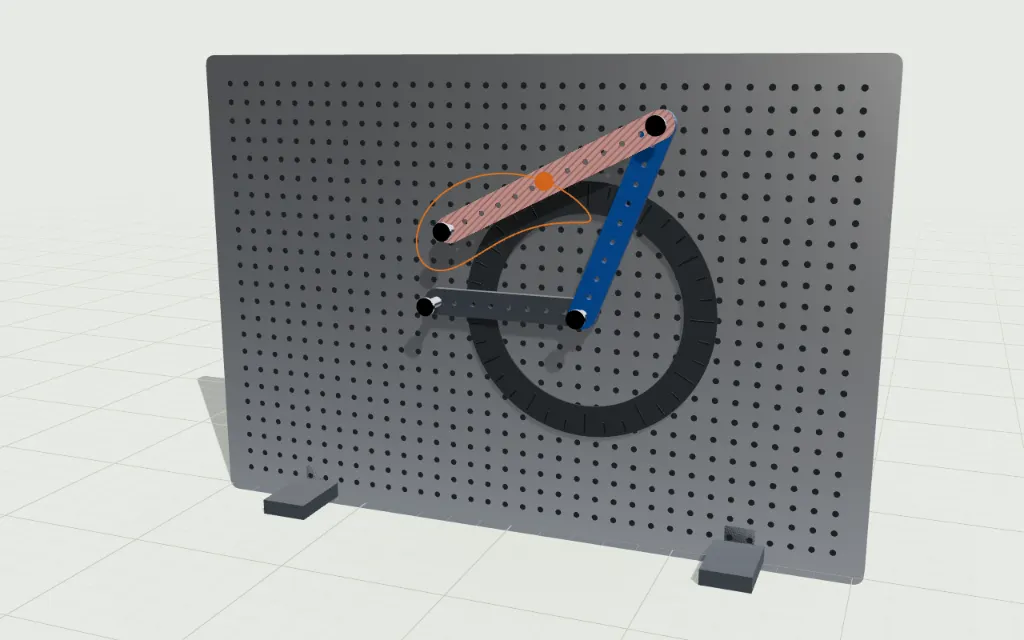
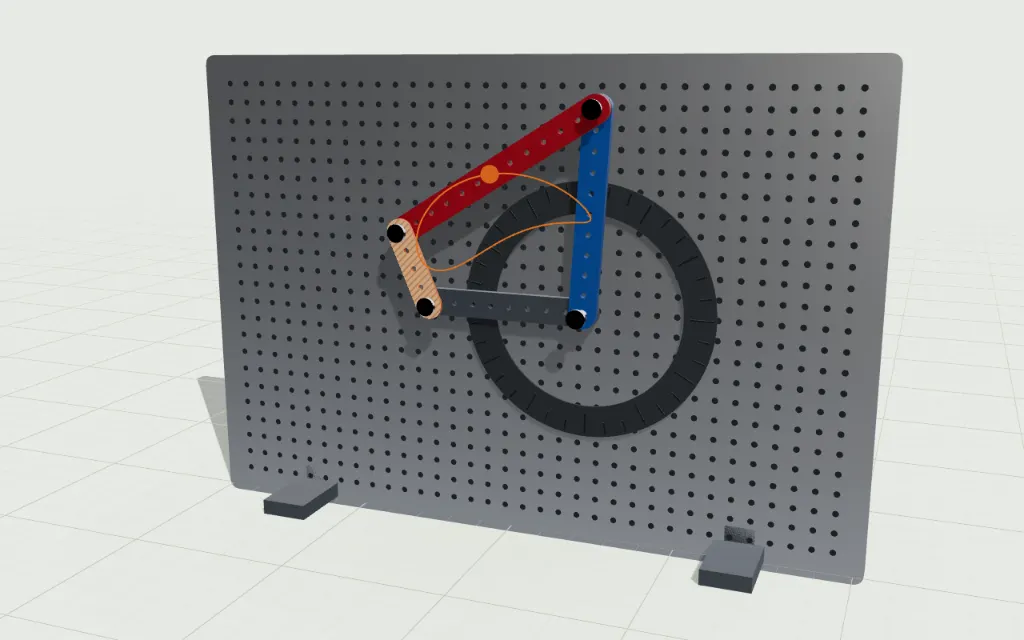
Planar rigs' cutaways go through their front link (four-bar's crank, slider-crank's rod, velocity diagram's coupler, inversions' rod no longer vanish); an audit of every rig's cutaways; pictures retaken; build log 89

Changed region(s): [[0.375, 0.125, 0.6562, 0.5]]

diff --git a/web/src/modules/mechanisms/four-bar/index.tsx b/web/src/modules/mechanisms/four-bar/index.tsx
@@ -20,7 +20,9 @@ const scene: SceneDef = {
   floorY: FLOOR,
   hatchScale: 0.005,
   timeScale: 1,
-  cutPresets: [{ id: 'through', label: 'Through the links', planes: [{ normal: [0, 0, 1], pos: 0.02 }], sectionMoving: true }],
+  // through the crank, the front link (z 0.03): the links behind stay whole. At 0.02 the plane removed everything
+  // in front of it, and the crank, which lies wholly in front, vanished (build log)
+  cutPresets: [{ id: 'through', label: 'Through the crank', planes: [{ normal: [0, 0, 1], pos: 0.03 }], sectionMoving: true }],
   cites: [LAB('Labs 1–2'), INV('four-bar chain, Grashof')],
   reset: () => useFourBar.getState().reset(),
   applyParams: (p) => useFourBar.getState().set(p as Partial<FourBarParams>),

diff --git a/web/src/modules/mechanisms/velocity-diagram/index.tsx b/web/src/modules/mechanisms/velocity-diagram/index.tsx
@@ -17,7 +17,8 @@ const scene: SceneDef = {
   floorY: FLOOR,
   hatchScale: 0.007,
   timeScale: 1,
-  cutPresets: [{ id: 'mid', label: 'Through the links', planes: [{ normal: [0, 0, 1], pos: 0.02 }], sectionMoving: true }],
+  // through the coupler (z 0.026 to 0.034), the front link; at 0.02 the coupler lay wholly in front and vanished
+  cutPresets: [{ id: 'mid', label: 'Through the links', planes: [{ normal: [0, 0, 1], pos: 0.03 }], sectionMoving: true }],
   cites: [V('relative velocity method'), A('acceleration diagrams')],
   reset: () => useDiagram.getState().reset(),
   applyParams: (p) => useDiagram.getState().set(p as Partial<typeof DEFAULTS>),

diff --git a/web/src/modules/mechanisms/inversions/index.tsx b/web/src/modules/mechanisms/inversions/index.tsx
@@ -16,7 +16,8 @@ const scene: SceneDef = {
   floorY: FLOOR,
   hatchScale: 0.008,
   timeScale: 1,
-  cutPresets: [{ id: 'mid', label: 'Through the links', planes: [{ normal: [0, 0, 1], pos: 0.03 }], sectionMoving: true }],
+  // through the connecting rod (z 0.039 to 0.061) and the crank; at 0.03 the rod lay wholly in front and vanished
+  cutPresets: [{ id: 'mid', label: 'Through the links', planes: [{ normal: [0, 0, 1], pos: 0.05 }], sectionMoving: true }],
   cites: [INV('Inversions of the single and double slider crank chains')],
   reset: () => useInv.getState().reset(),
   applyParams: (p) => useInv.getState().set(p as Partial<typeof DEFAULTS>),

diff --git a/web/src/modules/mechanisms/slider-crank/index.tsx b/web/src/modules/mechanisms/slider-crank/index.tsx
@@ -19,7 +19,8 @@ const scene: SceneDef = {
   floorY: FLOOR,
   hatchScale: 0.01,
   timeScale: 1,
-  cutPresets: [{ id: 'through', label: 'Through the mechanism', planes: [{ normal: [0, 0, 1], pos: 0.02 }], sectionMoving: true }],
+  // through the connecting rod (z 0.032 to 0.040), the front link; at 0.02 the rod lay wholly in front and vanished
+  cutPresets: [{ id: 'through', label: 'Through the mechanism', planes: [{ normal: [0, 0, 1], pos: 0.036 }], sectionMoving: true }],
   cites: [LAB('Labs 3 and 5')],
   reset: () => useSlider.getState().reset(),
   applyParams: (p) => useSlider.getState().set(p as Partial<SliderParams>),

diff --git a/docs/BUILD_LOG.md b/docs/BUILD_LOG.md
@@ -498,55 +498,67 @@ Every entry is numbered (in the order they appear, top to bottom) and set out th
 - **Cause:** those places printed text as text; only the chat and the step equations were drawn as maths.
 - **Solution:** `RichInline` (maths in a short label, and a label in bare LaTeX taken as maths) for Given, Find, step and answer labels and the Live and Working labels; the question text through `RichText`. Checked in Edge.
 - **Lesson:** every place model text appears is a place maths can appear.
+
+### 89. The four-bar's crank vanished in the cutaway (home page and its rig) (2026-11-09)
+- **Problem:** the owner saw the crank of the home page's linkage disappear; the Mechanisms tile picture showed the four-bar with no crank at all.
+- **Cause:** planar rigs stack their links in front of a board at different depths (four-bar: frame 6 mm, rocker 14, coupler 22, crank 30). The cutaway "through the links" put its plane at 20 mm and cut moving parts too, which removes everything in front of the plane. The coupler was cut through, but the crank lay wholly in front, so it vanished. The cutaway is part of the home page's show reel and the default for the tile pictures.
+- **Solution:** each plane goes through the front link instead: four-bar at 30 mm (the crank shows hatched), slider-crank at 36 mm (the connecting rod), velocity diagram at 30 mm (the coupler), inversions at 50 mm (the connecting rod and crank). Found by an audit of all 115 rigs (`scripts/audit-cuts.mjs`), which applies every cutaway that cuts moving parts and lists any moving part whose whole box lies on the removed side. The other hits are half sections where the far half is meant to go (a right wheel, push rods). All 12 mechanisms rigs pass, the tile and the four rigs' pictures were retaken, and the cut was checked in Edge.
+- **Lesson:** a section plane must go through what it is meant to show; check that every moving part is still drawn in each cutaway, for every rig, not just the one reported.
+
+### 90. The phone menu ran off the right edge of the screen (2026-11-09)
+- **Problem:** on a phone the Menu sheet was a fixed 256 px panel hung from the Menu button, about 140 px in, so it ran past the right edge and was cut off. It also listed Solve a question twice.
+- **Cause:** the sheet was positioned from the button, not from the page; the item is in both Create and Study.
+- **Solution:** the sheet hangs from the header bar with a 16 px margin each side (a 320 px panel on tablets), and a link a later section also has is listed there only. Measured in Edge at 360, 390 and 820 px: inside the screen every time, page width unchanged.
+- **Lesson:** a popover on a phone belongs to the page's margins, not to the button that opens it; measure its box at the narrowest width.
 ## Nightly tests, admin and labs pages (2026-11-06)
 
-### 89. A propped-cantilever model crashed the whole workspace
+### 91. A propped-cantilever model crashed the whole workspace
 - **Problem:** `Cannot read properties of undefined (reading '0')`, blank page.
 - **Cause:** Gemini sent a `recommendedCut` without a `normal`; the cleaner passed the object through unchecked and an effect read `normal[0]`.
 - **Solution:** `cleanCut` in `note3d/sanitize.ts` checks every field (also applied when opening saved models and in the notes reader), and error boundaries round the 3D view, the side panel and each page.
 - **Lesson:** validate every nested field of model output, not just its presence; and no page should be one bad value away from blank.
 
-### 90. Nightly builds failed with "Something went wrong on the server" (500)
+### 92. Nightly builds failed with "Something went wrong on the server" (500)
 - **Problem:** Nightly builds failed with "Something went wrong on the server" (500).
 - **Cause:** Gemini answered 429 RESOURCE_EXHAUSTED when three builds ran at once, and the API gave up on the first refusal.
 - **Solution:** `api/src/retry.ts` waits and retries (2, 6, 15 s) on 429/503, streamed builds retry if refused before their first word, the final failure says the model is busy (503), and the runner tries once more after 30 s.
 - **Lesson:** treat rate limits as normal for a hosted model; read the service's logs before guessing.
 
-### 91. A draft scored 100 while visibly broken
+### 93. A draft scored 100 while visibly broken
 - **Problem:** (rods not reaching the crank, a tilted flywheel through the casing, labels on top of each other).
 - **Cause:** the checks only covered layout overlap, drawability and calculations.
 - **Solution:** checks for moving parts joined by relation and for overlapping labels, and the prompt states the same rules.
 - **Lesson:** a score is only as good as its checks; look at high scorers before trusting the number.
 
-### 92. Deploy failed: "Build failed; check build logs"
+### 94. Deploy failed: "Build failed; check build logs"
 - **Problem:** Deploy failed: "Build failed; check build logs".
 - **Cause:** `gcloud run deploy --source .` run from the repo root, which has no Dockerfile.
 - **Solution:** run it from `api/`.
 - **Lesson:** `--source .` uploads the current folder; check where you are.
 
-### 93. Rig thumbnails came out blank, and with a stray `_` in their names
+### 95. Rig thumbnails came out blank, and with a stray `_` in their names
 - **Problem:** Rig thumbnails came out blank, and with a stray `_` in their names.
 - **Cause:** two scenes photographed before they had drawn in a reused tab; and the rig list written by Python on Windows had CRLF line endings, so each id ended in `\r`.
 - **Solution:** retook those two in a fresh tab (`SHOT_COLD=1`); renamed the files and strip `\r` when reading lists.
 - **Lesson:** check the smallest output files of a batch capture, and strip `\r` from lists made on Windows.
 
-### 94. Inline scripts lost their backslashes
+### 96. Inline scripts lost their backslashes
 - **Problem:** A `node -e` / heredoc script through the shell turned `C:\Program Files` into `C:\Program Files`, so the browser path was not found.
 - **Solution:** forward slashes in Windows paths in scripts, and the editor rather than the shell for code containing escapes.
 - **Lesson:** don't pass escape-heavy code through the shell.
 
-### 95. Prettier reformatted a file into another style
+### 97. Prettier reformatted a file into another style
 - **Problem:** With no project config it used its defaults (double quotes, semicolons).
 - **Solution:** re-run with the project's settings (`--no-semi --single-quote --print-width 220`).
 - **Lesson:** don't run a formatter the project doesn't configure.
 
-### 96. The Labs page was wider than a phone
+### 98. The Labs page was wider than a phone
 - **Problem:** The Labs page was wider than a phone.
 - **Cause:** one-line rig names in a grid item set its minimum width.
 - **Solution:** `min-w-0` on the card.
 - **Lesson:** any `truncate` text inside a grid or flex child needs `min-w-0` on that child.
 
-### 97. Gearbox levers hung in the air, and the reverse idler had no shaft
+### 99. Gearbox levers hung in the air, and the reverse idler had no shaft
 - **Problem:** Gearbox levers hung in the air, and the reverse idler had no shaft.
 - **Cause:** the cut-away removed the half of the casing the lever towers stood on (moving parts are not cut, so the levers stayed); the idler's shaft was defined but never drawn, and a full-length pin would have run through third gear and the range gears.
 - **Solution:** a shift cover the towers stand on; a stub shaft and wall boss for the idler; and the cut now removes the other half, with the cameras moved to that side, so everything kept is attached to something.
